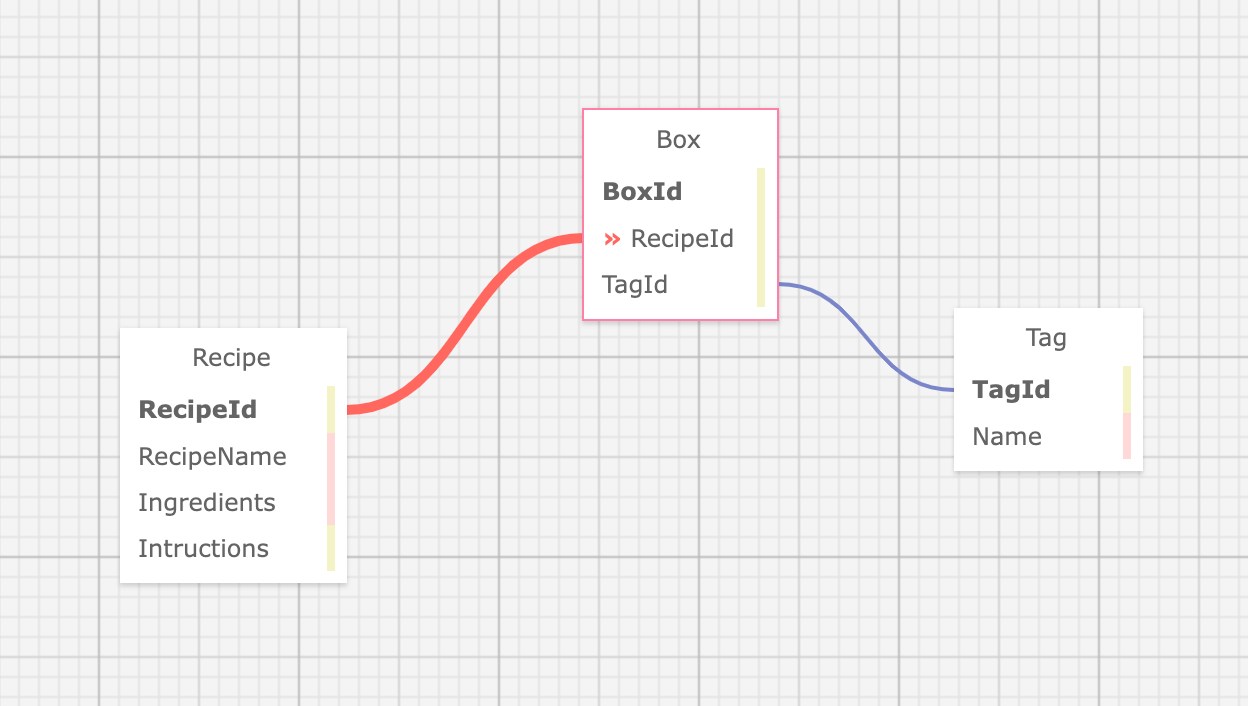
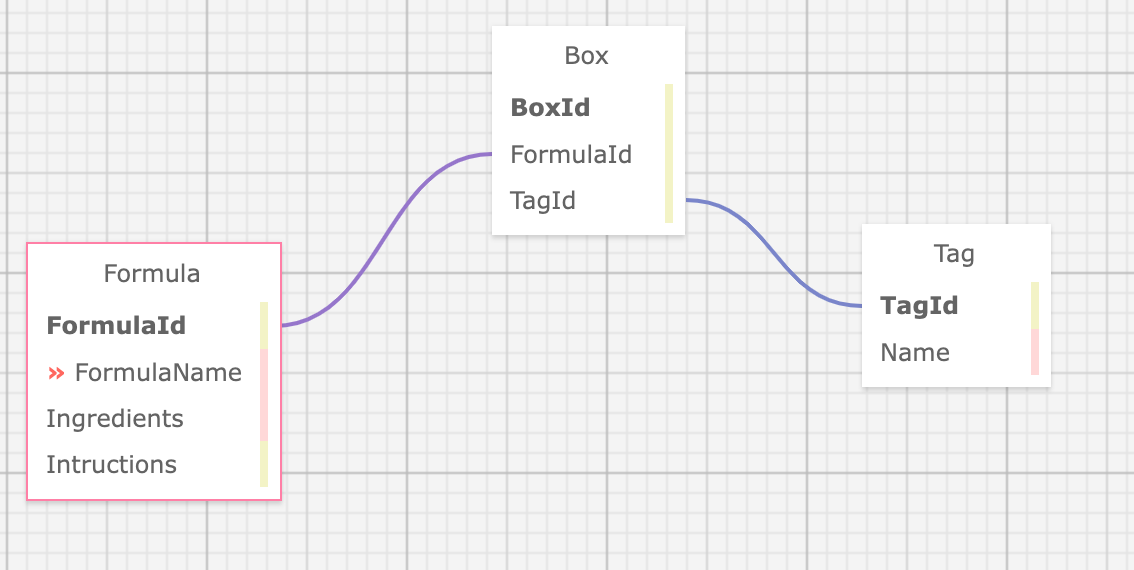
add input fields for ingredients and intructions in create and edit views, updated SQLDesign and some new css

diff --git a/Recipe/wwwroot/css/site.css b/Recipe/wwwroot/css/site.css
@@ -17,13 +17,15 @@ body {
   margin-right: 8%;
   margin-top: 7%;
   font-family: 'Times New Roman', Times, serif;
-  max-width: 100%; 
+  max-width: 84%; 
   width: 90%;
 	border-radius: 2%;
 	border: 5px;
 	border-style: ridge;
 	border-color: dimgray;
 	background-color: lightblue;
+  height: 800px;
+  padding-bottom: 10px;
 }
 
 li {
